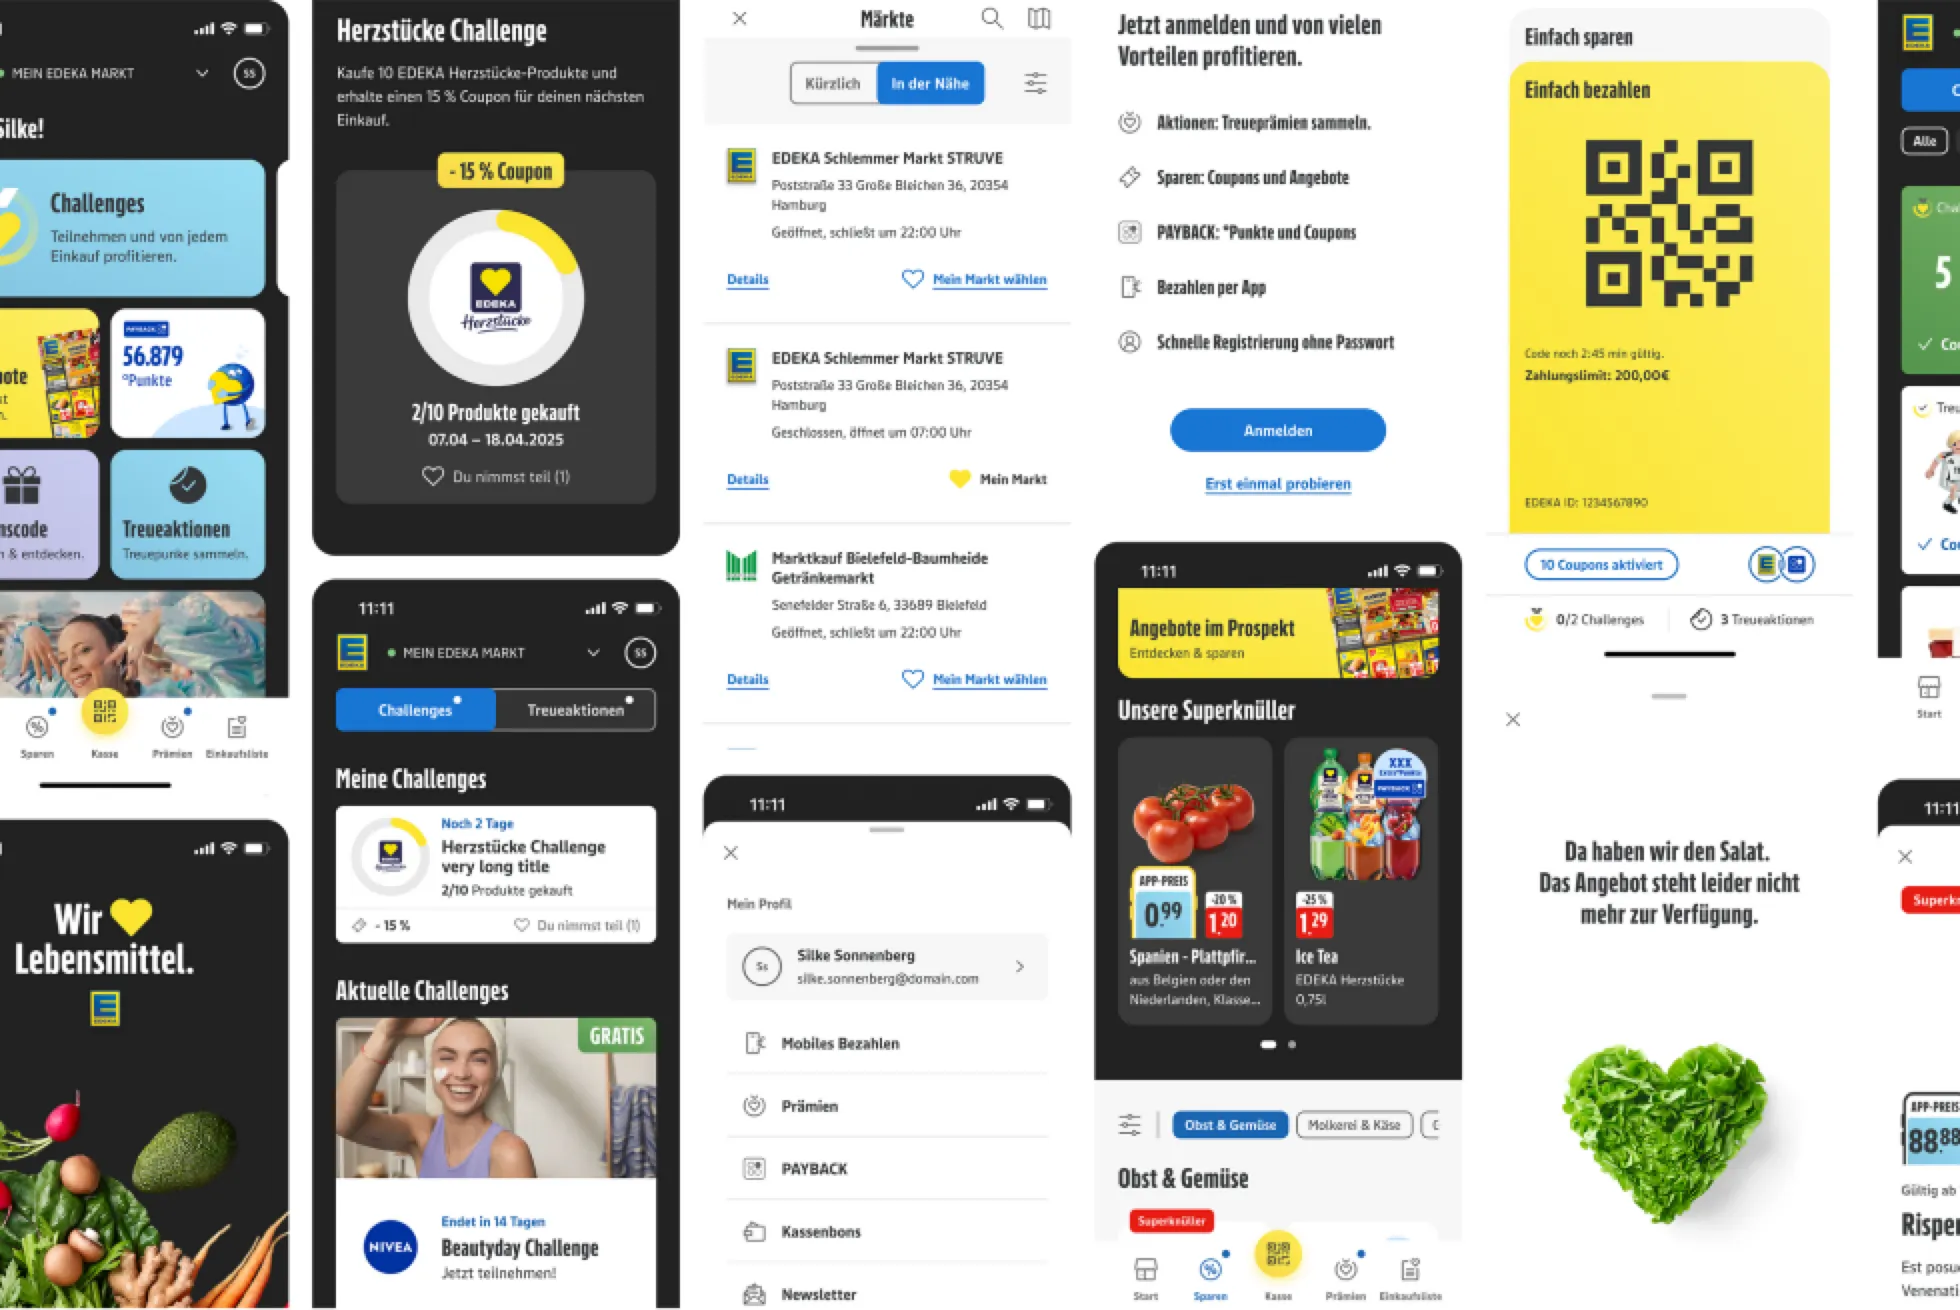
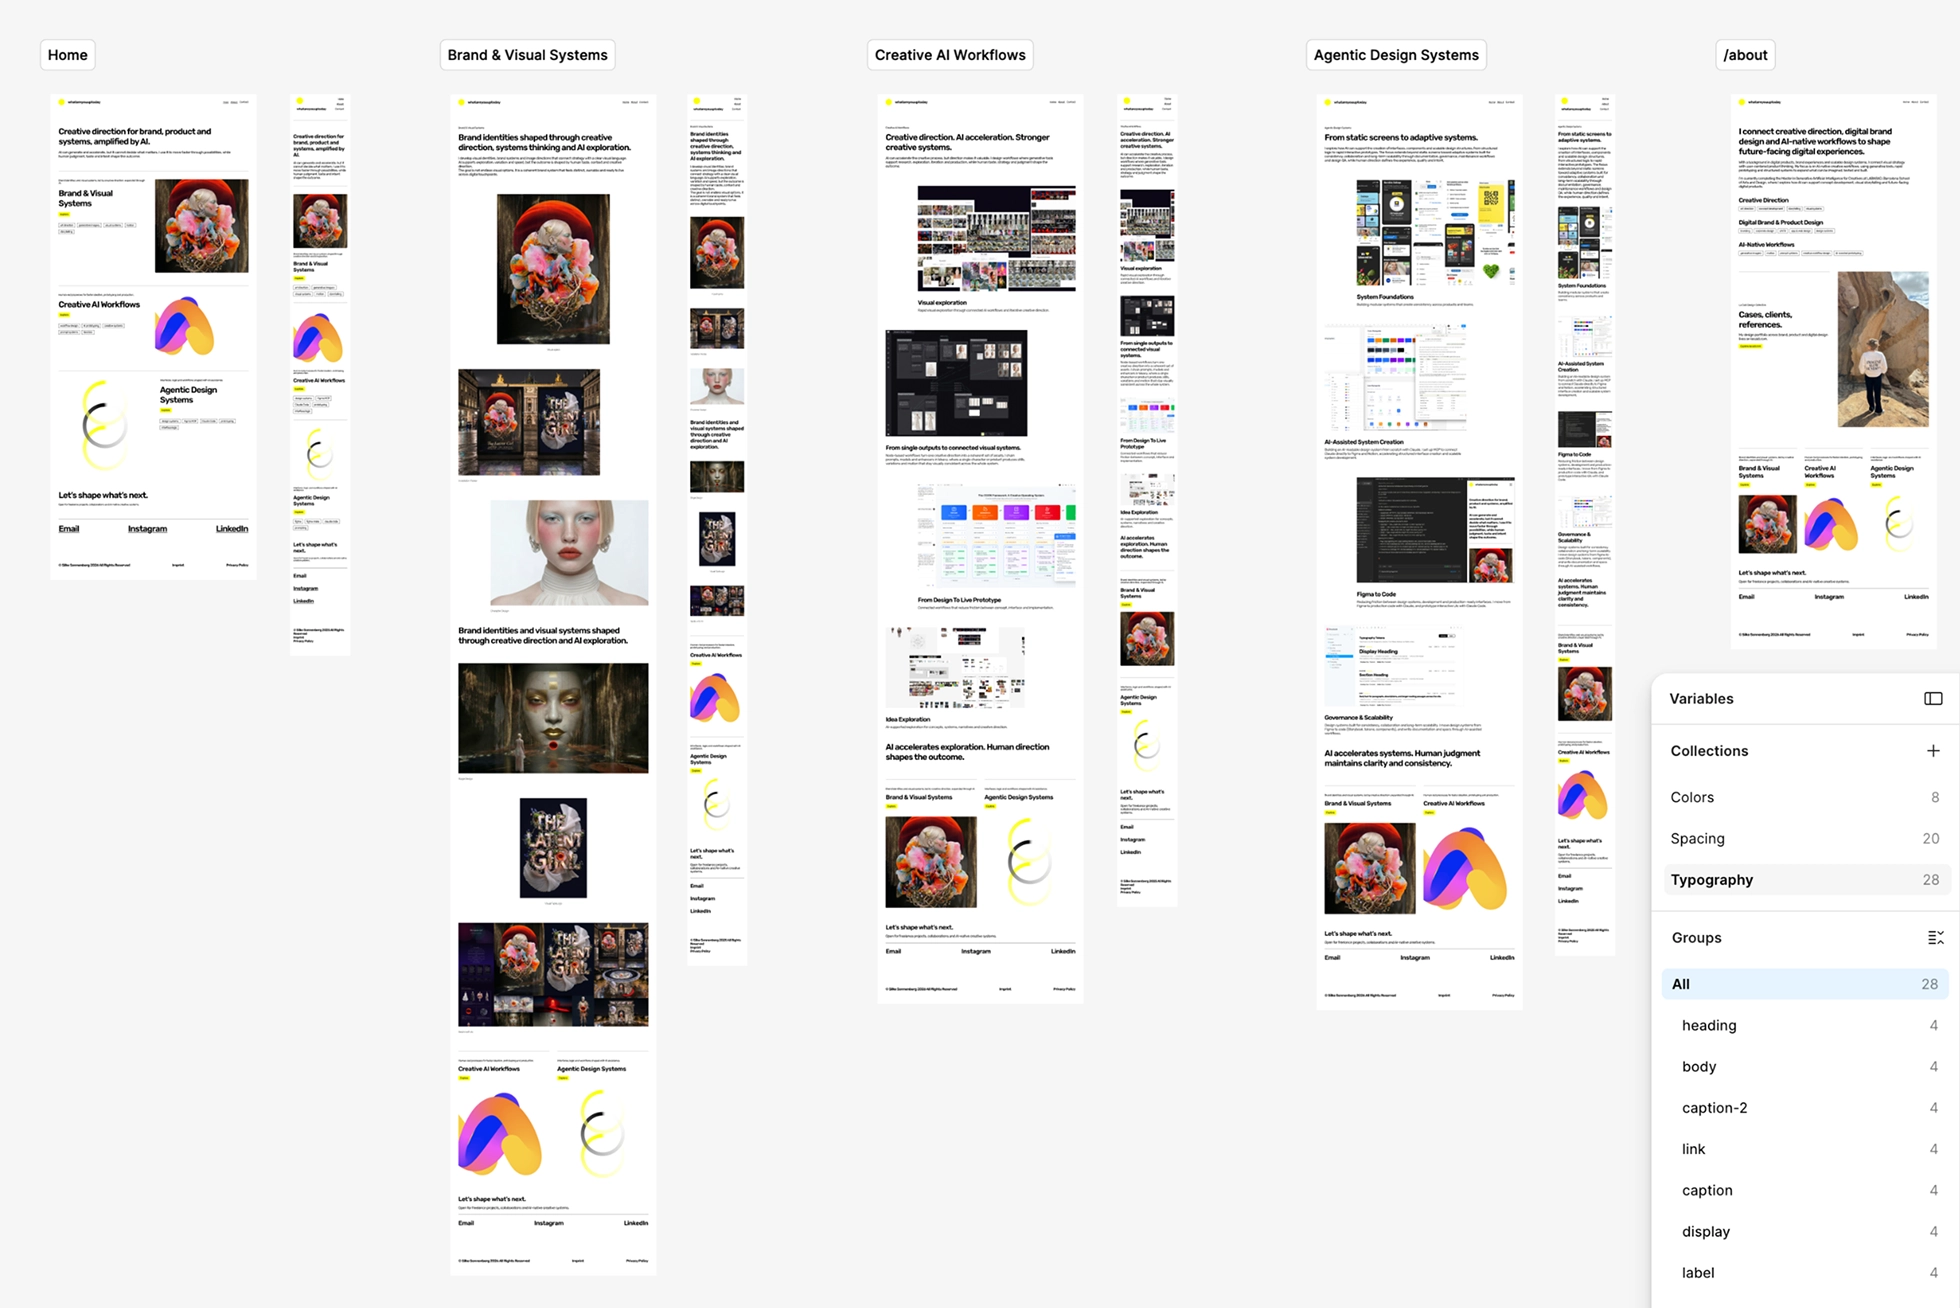
Align gallery text with images, update agentic images (#7)
* Update workflow section 02 with new Weavy visual systems content

New headline, copy, and image for the node-based workflow section,
showing connected visual systems in Weavy.

* Update about page skill-to-skill spacing to match Figma (48px)

* Update workflow images for sections 03 and 04

New COOK Framework image for "From Design To Live Prototype" and
new exploration board image for "Idea Exploration".

* Add Le Caid Design Collective text block to about page portrait section

Added label, heading, body text and CTA button linking to lecaid.com
in the left column next to the portrait. Responsive across all breakpoints.

* Replace typelogo image with self-hosted video, update brand label text

- Replaced static ai-typelogo image with compressed looping video (496KB)
- Updated "Brand identities" label text across all pages

* Replace iterate image with visual board on branding page

* Align gallery text left with images, update agentic images

- Fixed right-aligned gallery text to stretch and left-align with image
- Updated agentic-01 and agentic-02 images

---------

diff --git a/styles.css b/styles.css
@@ -709,6 +709,11 @@ img {
   gap: 8px;
 }
 
+.gallery-item.right .gallery-text,
+.gallery-item.right .gallery-caption {
+  align-self: stretch;
+}
+
 /* ==========================================
    Portfolio Page — Mid Text
    ========================================== */
